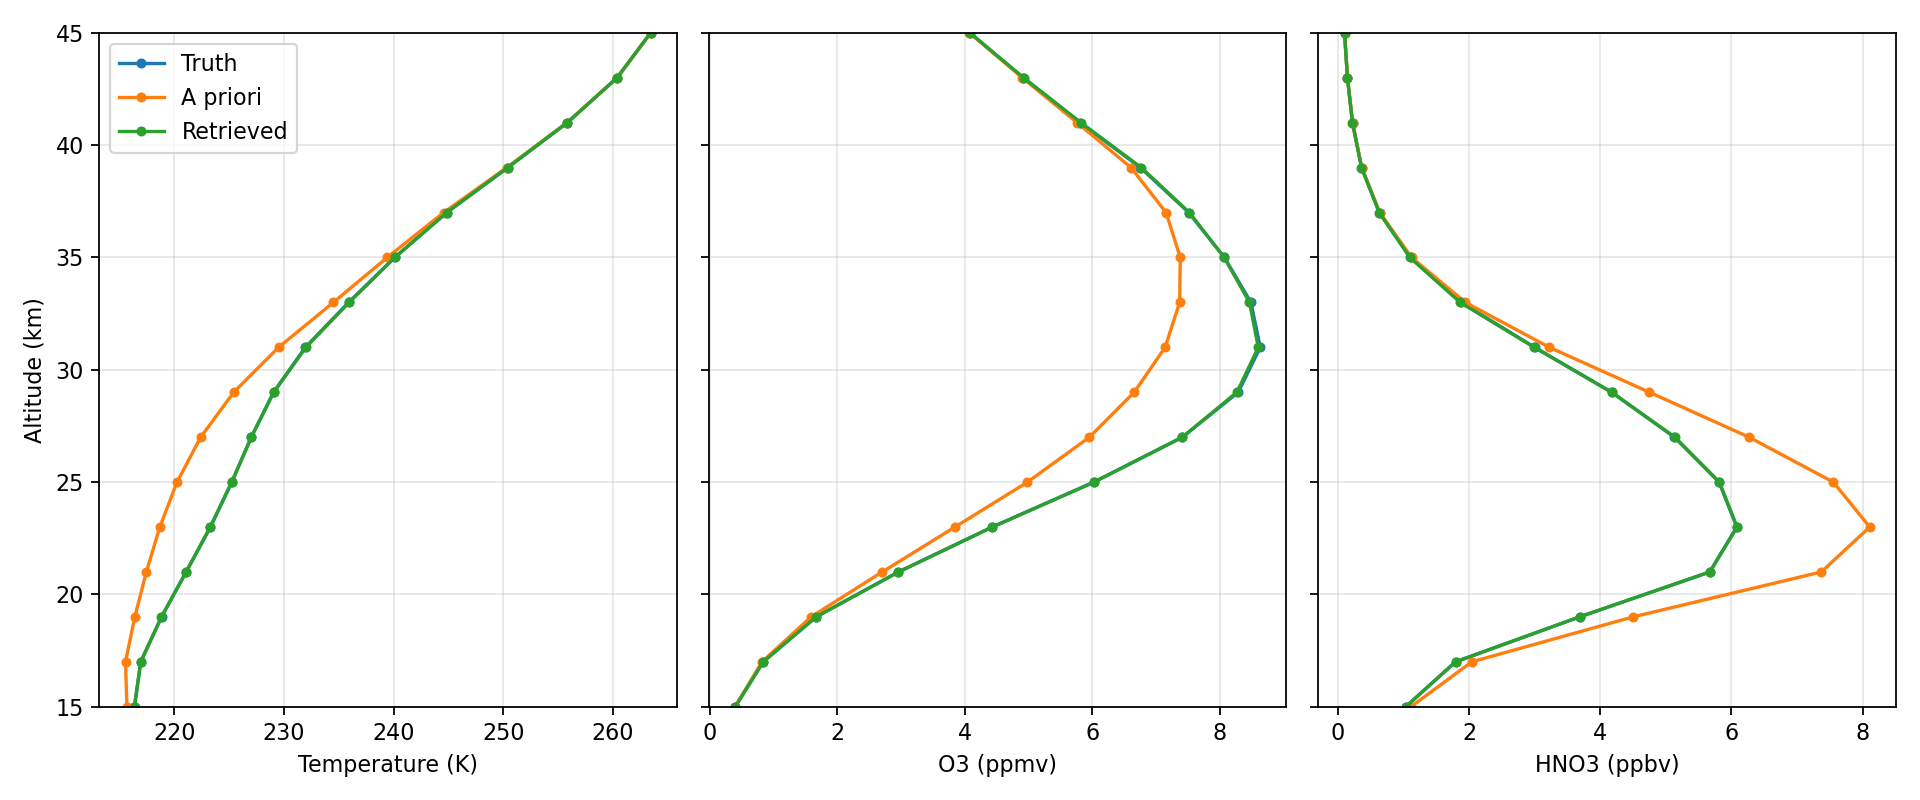
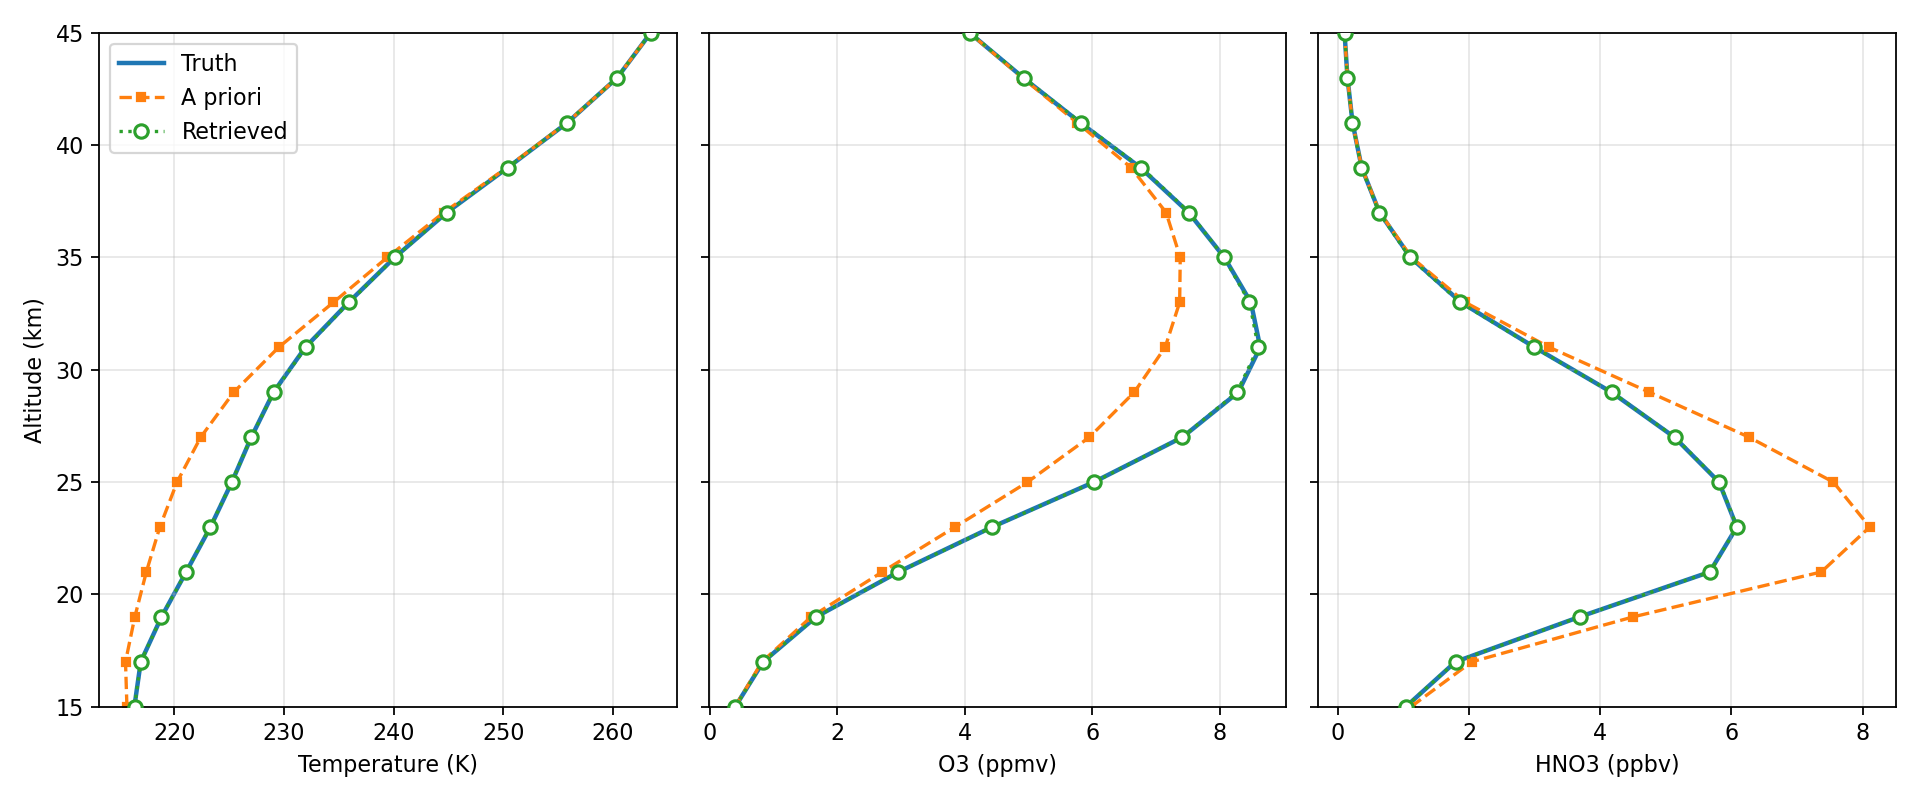
Improve retrieval visualizations

diff --git a/projects/retrieval/analyze.py b/projects/retrieval/analyze.py
@@ -24,6 +24,8 @@ CHANNELS = (791, 792, 793, 810, 811, 812, 778, 779, 780,
 QUANTITIES = (("temperature", "TEMPERATURE", 5, 1, "Temperature (K)", "K"),
               ("o3", "O3", 8, 1e6, "O3 (ppmv)", "ppmv"),
               ("hno3", "HNO3", 9, 1e9, "HNO3 (ppbv)", "ppbv"))
+# Representative configured channels for signed kernel slices (cm^-1).
+SLICE_CHANNELS = {"temperature": 792, "o3": 788, "hno3": 867}
 
 
 def rows(path):
@@ -119,11 +121,12 @@ def matrix_diagnostics(prior, final, selected, metrics):
         raise ValueError("Kernel view altitudes differ from limb geometry")
 
     fig_jac, jac_axes = plt.subplots(1, 3, figsize=(13, 5), sharey=True)
+    fig_slice, slice_axes = plt.subplots(1, 3, figsize=(12, 5), sharey=True)
     fig_avk, avk_axes = plt.subplots(1, 3, figsize=(12, 5), sharey=True)
     fig_unc, unc_axes = plt.subplots(1, 3, figsize=(12, 5), sharey=True)
     channels = sorted(CHANNELS)
-    for ax_jac, ax_avk, ax_unc, (key, name, column, scale, _, unit) in zip(
-            jac_axes, avk_axes, unc_axes, QUANTITIES):
+    for ax_jac, ax_slice, ax_avk, ax_unc, (key, name, column, scale, _, unit) in zip(
+            jac_axes, slice_axes, avk_axes, unc_axes, QUANTITIES):
         # State columns carry quantity labels and altitude coordinates. Select
         # one 16-level block and verify it matches the retrieved profile grid.
         state_ids = [j for j, meta in enumerate(states) if meta[0] == name]
@@ -154,6 +157,27 @@ def matrix_diagnostics(prior, final, selected, metrics):
                    xticks=np.arange(len(channels)) + 0.5, title=name)
         ax_jac.set_xticklabels(channels, rotation=90)
         fig_jac.colorbar(image, ax=ax_jac, label=f"W/(m² sr cm⁻¹) per {unit}")
+
+        # Show one signed channel slice directly from measurement rows and
+        # state columns. Transpose to put state altitude on the vertical axis.
+        nu = SLICE_CHANNELS[key]
+        ray_ids = sorted((i for i, meta in enumerate(measurements)
+                          if float(meta[0]) == nu),
+                         key=lambda i: float(measurements[i][2]))
+        view_altitudes = np.array([float(measurements[i][2]) for i in ray_ids])
+        if not np.array_equal(view_altitudes, altitudes):
+            raise ValueError(f"Unexpected limb grid at {nu} cm^-1")
+        view_edges = np.r_[view_altitudes - 1, view_altitudes[-1] + 1]
+        signed = (kernel[np.ix_(ray_ids, state_ids)] / scale).T
+        signed_bound = float(np.max(np.abs(signed)))
+        if signed_bound <= 0:
+            raise ValueError(f"Zero signed kernel slice for {name} at {nu} cm^-1")
+        image = ax_slice.pcolormesh(view_edges, edges, signed, cmap="RdBu_r",
+                                    norm=TwoSlopeNorm(vmin=-signed_bound, vcenter=0,
+                                                      vmax=signed_bound))
+        ax_slice.set(xlabel="Tangent altitude (km)", title=f"{name} · {nu} cm⁻¹",
+                     xlim=(15, 45), ylim=(15, 45))
+        fig_slice.colorbar(image, ax=ax_slice, label=f"W/(m² sr cm⁻¹) per {unit}")
 
         # The within-quantity block shows vertical response in comparable
         # units; cross-quantity blocks remain in the full matrix but are not
@@ -198,6 +222,8 @@ def matrix_diagnostics(prior, final, selected, metrics):
     for fig, axes, filename, ylabel, title in (
             (fig_jac, jac_axes, "jacobians.png", "Retrieval altitude (km)",
              "RMS finite-difference sensitivity over limb observations"),
+            (fig_slice, slice_axes, "kernel_slices.png", "Retrieval altitude (km)",
+             "Signed finite-difference kernel at representative channels"),
             (fig_avk, avk_axes, "averaging_kernels.png", "Retrieval altitude (km)",
              "Averaging kernels (within-quantity blocks)"),
             (fig_unc, unc_axes, "uncertainties.png", "Altitude (km)", None)):
@@ -262,12 +288,19 @@ def main():
     metrics["retrieval_iterate_s"] = timer(log, "RET_ITERATE")
     metrics["retrieval_setup_s"] = timer(log, "RET_SETUP")
     metrics["retrieval_diagnostics_s"] = timer(log, "RET_DIAGNOSTICS")
-    # Plot truth, prior, and retrieved profiles at the discrete 2 km levels.
+    # Keep retrieved open markers above the truth line so their close
+    # agreement remains visible without moving either profile.
     fig, axes = plt.subplots(1, 3, figsize=(12, 5), sharey=True)
     for ax, (_, _, column, scale, title, _) in zip(axes, QUANTITIES):
-        for name, table in (("Truth", truth), ("A priori", prior), ("Retrieved", final)):
+        for name, table, style in (
+                ("Truth", truth, {"linestyle": "-", "linewidth": 2, "zorder": 1}),
+                ("A priori", prior, {"linestyle": "--", "marker": "s",
+                                    "markersize": 3.5, "zorder": 2}),
+                ("Retrieved", final, {"linestyle": ":", "marker": "o",
+                                     "markersize": 6, "markerfacecolor": "white",
+                                     "markeredgewidth": 1.4, "zorder": 3})):
             ax.plot([table[i][column] * scale for i in selected],
-                    [table[i][1] for i in selected], "o-", markersize=3.5, label=name)
+                    [table[i][1] for i in selected], label=name, **style)
         ax.set_xlabel(title)
         ax.grid(alpha=0.3)
         ax.set_ylim(15, 45)

diff --git a/projects/retrieval/README.md b/projects/retrieval/README.md
@@ -86,8 +86,9 @@ own metrics and all signed radiance residuals to `work/`.
 ![Truth, a priori, and retrieved temperature, O3, and HNO3 profiles](results/profiles.png)
 
 The three panels compare truth, a priori, and retrieved profiles over
-15–45 km. The retrieval recovers the imposed smooth perturbations in this
-internally consistent synthetic experiment.
+15–45 km. Open retrieved markers sit on top of the truth curves where the
+profiles nearly coincide: the internally consistent synthetic retrieval
+recovers the imposed smooth perturbations very closely.
 
 ### Radiance residuals and convergence
 
@@ -110,6 +111,19 @@ respond to temperature, O3, and HNO3. The last kernel written by retrieval
 need not be evaluated at the exact final state when `KERNEL_RECOMP = 3`.
 Temperature derivatives are shown per K, O3 per ppmv, and HNO3 per ppbv.
 Each panel has its own logarithmic color scale.
+
+![Signed finite-difference kernel slices at representative channels](results/kernel_slices.png)
+
+The complementary `kernel_slices.png` plots actual **signed** entries from
+the same finite-difference kernel at 792 cm⁻¹ (temperature), 788 cm⁻¹ (O3),
+and 867 cm⁻¹ (HNO3). Tangent altitude is horizontal and retrieval altitude
+vertical. Its zero-centered color scales retain derivative sign, whereas
+`jacobians.png` summarizes magnitude across all limb observations by RMS.
+Together they show detailed kernel structure and the broader spectral and
+vertical sensitivity pattern. The chosen channels illustrate this synthetic
+setup; they are not optimized real-instrument channels. The nonzero values
+in these three reference slices are positive, so the negative halves of the
+diverging color scales are unused here.
 
 ### Averaging kernels
 
